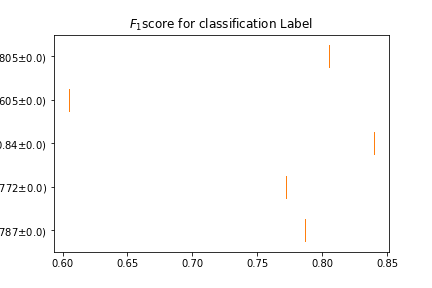
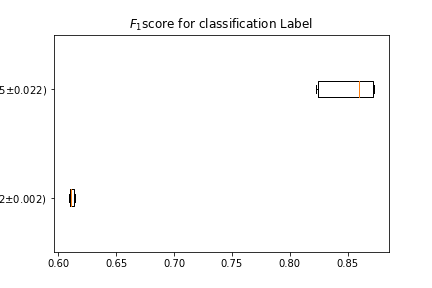
s

diff --git a/2_levels_problem/mode2/MLobject_tlevel.py b/2_levels_problem/mode2/MLobject_tlevel.py
@@ -109,19 +109,19 @@ class MyMLdata_2level:
         # 'param_list': [{'n_neighbors':range(1, 30)}, {'max_depth': [10, 100, 1e3]}, {'n_estimators':[10, 100]}, {'n_estimators':[10, 100]},{'n_estimators':[10, 100]}, {'var_smoothing':[1e-9, 1e-3]},{'hidden_layer_sizes':((100, 300, 500, 300, 100), (100, 300, 500, 500, 300, 100), (200, 600, 900, 600, 200))}]# a list of key parameters correspond to the models in the model_lists
         # }
         # NN compared to Naive bias only only:
-        # classification_default_param = {
-        # 'model_names': ['Naive Bayes', 'Neural Network'], # a list of name for each model.
-        # 'model_lists': [GaussianNB(), MLPClassifier((100,100),alpha=0.001, activation = 'relu',verbose=0,learning_rate='adaptive')],# a list of model improted from sklearn
-        # 'gridsearchlist': [False, False],
-        # 'param_list': [{'var_smoothing':[1e-9, 1e-3]}, {'hidden_layer_sizes':((100, 300, 500, 300, 100), (100, 300, 500, 500, 300, 100), (200, 600, 900, 600, 200))}]# a list of key parameters correspond to the models in the model_lists
-        # }
-        # wihtout CSV, gradient boosting, adabosting
         classification_default_param = {
-        'model_names': ['KNN', 'Decision tree', 'Random Forest',  'Naive Bayes', 'Neural Network'], # a list of name for each model.
-        'model_lists': [KNeighborsClassifier(n_neighbors = 5, weights='distance',n_jobs=-1), DecisionTreeClassifier(), RandomForestClassifier(n_estimators=100, verbose =0,n_jobs=-1), GaussianNB(), MLPClassifier((100,100),alpha=0.001, activation = 'relu',verbose=0,learning_rate='adaptive')],# a list of model improted from sklearn
-        'gridsearchlist': [False, False, False, False, False, False, False],
-        'param_list': [{'n_neighbors':range(1, 30)}, {'max_depth': [10, 100, 1e3]}, {'n_estimators':[10, 100]}, {'var_smoothing':[1e-9, 1e-3]},{'hidden_layer_sizes':((100, 300, 500, 300, 100), (100, 300, 500, 500, 300, 100), (200, 600, 900, 600, 200))}]# a list of key parameters correspond to the models in the model_lists
+        'model_names': ['Naive Bayes', 'Neural Network'], # a list of name for each model.
+        'model_lists': [GaussianNB(), MLPClassifier((100, 300, 500, 300, 100),alpha=0.001, activation = 'relu',verbose=0,learning_rate='adaptive')],# a list of model improted from sklearn
+        'gridsearchlist': [False, False],
+        'param_list': [{'var_smoothing':[1e-9, 1e-3]}, {'hidden_layer_sizes':((100, 300, 500, 300, 100), (100, 300, 500, 500, 300, 100), (200, 600, 900, 600, 200))}]# a list of key parameters correspond to the models in the model_lists
         }
+        # wihtout CSV, gradient boosting, adabosting
+        # classification_default_param = {
+        # 'model_names': ['KNN', 'Decision tree', 'Random Forest',  'Naive Bayes', 'Neural Network'], # a list of name for each model.
+        # 'model_lists': [KNeighborsClassifier(n_neighbors = 5, weights='distance',n_jobs=-1), DecisionTreeClassifier(), RandomForestClassifier(n_estimators=100, verbose =0,n_jobs=-1), GaussianNB(), MLPClassifier((100,100),alpha=0.001, activation = 'relu',verbose=0,learning_rate='adaptive')],# a list of model improted from sklearn
+        # 'gridsearchlist': [False, False, False, False, False, False, True],
+        # 'param_list': [{'n_neighbors':range(1, 30)}, {'max_depth': [10, 100, 1e3]}, {'n_estimators':[10, 100]}, {'var_smoothing':[1e-9, 1e-3]},{'hidden_layer_sizes':((100, 300, 500, 300, 100), (100, 300, 500, 500, 300, 100), (200, 600, 900, 600, 200), (100, 200))}]# a list of key parameters correspond to the models in the model_lists
+        # }
 
         self.path = path
         self.data = pd.read_csv(path)
@@ -452,7 +452,7 @@ class MyMLdata_2level:
 
 
 # %%--- Classification machine learning tasks.
-    def classification_training(self, X_train_scaled, X_test_scaled, y_train, y_test, display_confusion_matrix=False, return_model=False):
+    def classification_training(self, X_train_scaled, X_test_scaled, y_train, y_test, display_confusion_matrix=True, return_model=False):
         """
         This function is only capable for binary classification yet.
         input:
@@ -505,7 +505,7 @@ class MyMLdata_2level:
             y_pred_list.append(y_pred)
             y_test_list.append(y_test)
             # print the output
-            print('finish training ' + name + ', the accuracy is ' + str(f1))
+            print('finish training ' + name + ', the F1 score is ' + str(f1))
             # display the confusion matrix
             if display_confusion_matrix==True:
                 print(confusion_matrix(y_test, y_pred, normalize='all'))

diff --git a/2_levels_problem/defect_2level_classification.py/defect_type_classification.py b/2_levels_problem/defect_2level_classification.py/defect_type_classification.py
@@ -37,7 +37,7 @@ sys.path.append(r'C:\Users\z5183876\OneDrive - UNSW\Documents\GitHub\SRH_sklearn
 sys.path.append(r'C:\Users\z5183876\OneDrive - UNSW\Documents\GitHub\SRH_sklearn_playwithdata\2_levels_problem\mode2\Savedir_example')
 from MLobject_tlevel import *
 # from dynamic_generation_regression import *
-df1 = MyMLdata_2level(r"C:\Users\sijin wang\Desktop\research\thesiswork\ML_results\simulation_data\Etnonordered\one_vs_two_level_classification\80k\2022-09-14-10-03-50_advanced example - multi_level_L_datasetID_0.csv", 'bandgap1',1)
+df1 = MyMLdata_2level(r"C:\Users\sijin wang\Desktop\research\thesiswork\ML_results\simulation_data\Etnonordered\one_vs_two_level_classification\80k\2022-09-14-10-03-50_advanced example - multi_level_L_datasetID_0.csv", 'bandgap1',5)
 # df1.data.head()
 # %%-
 
